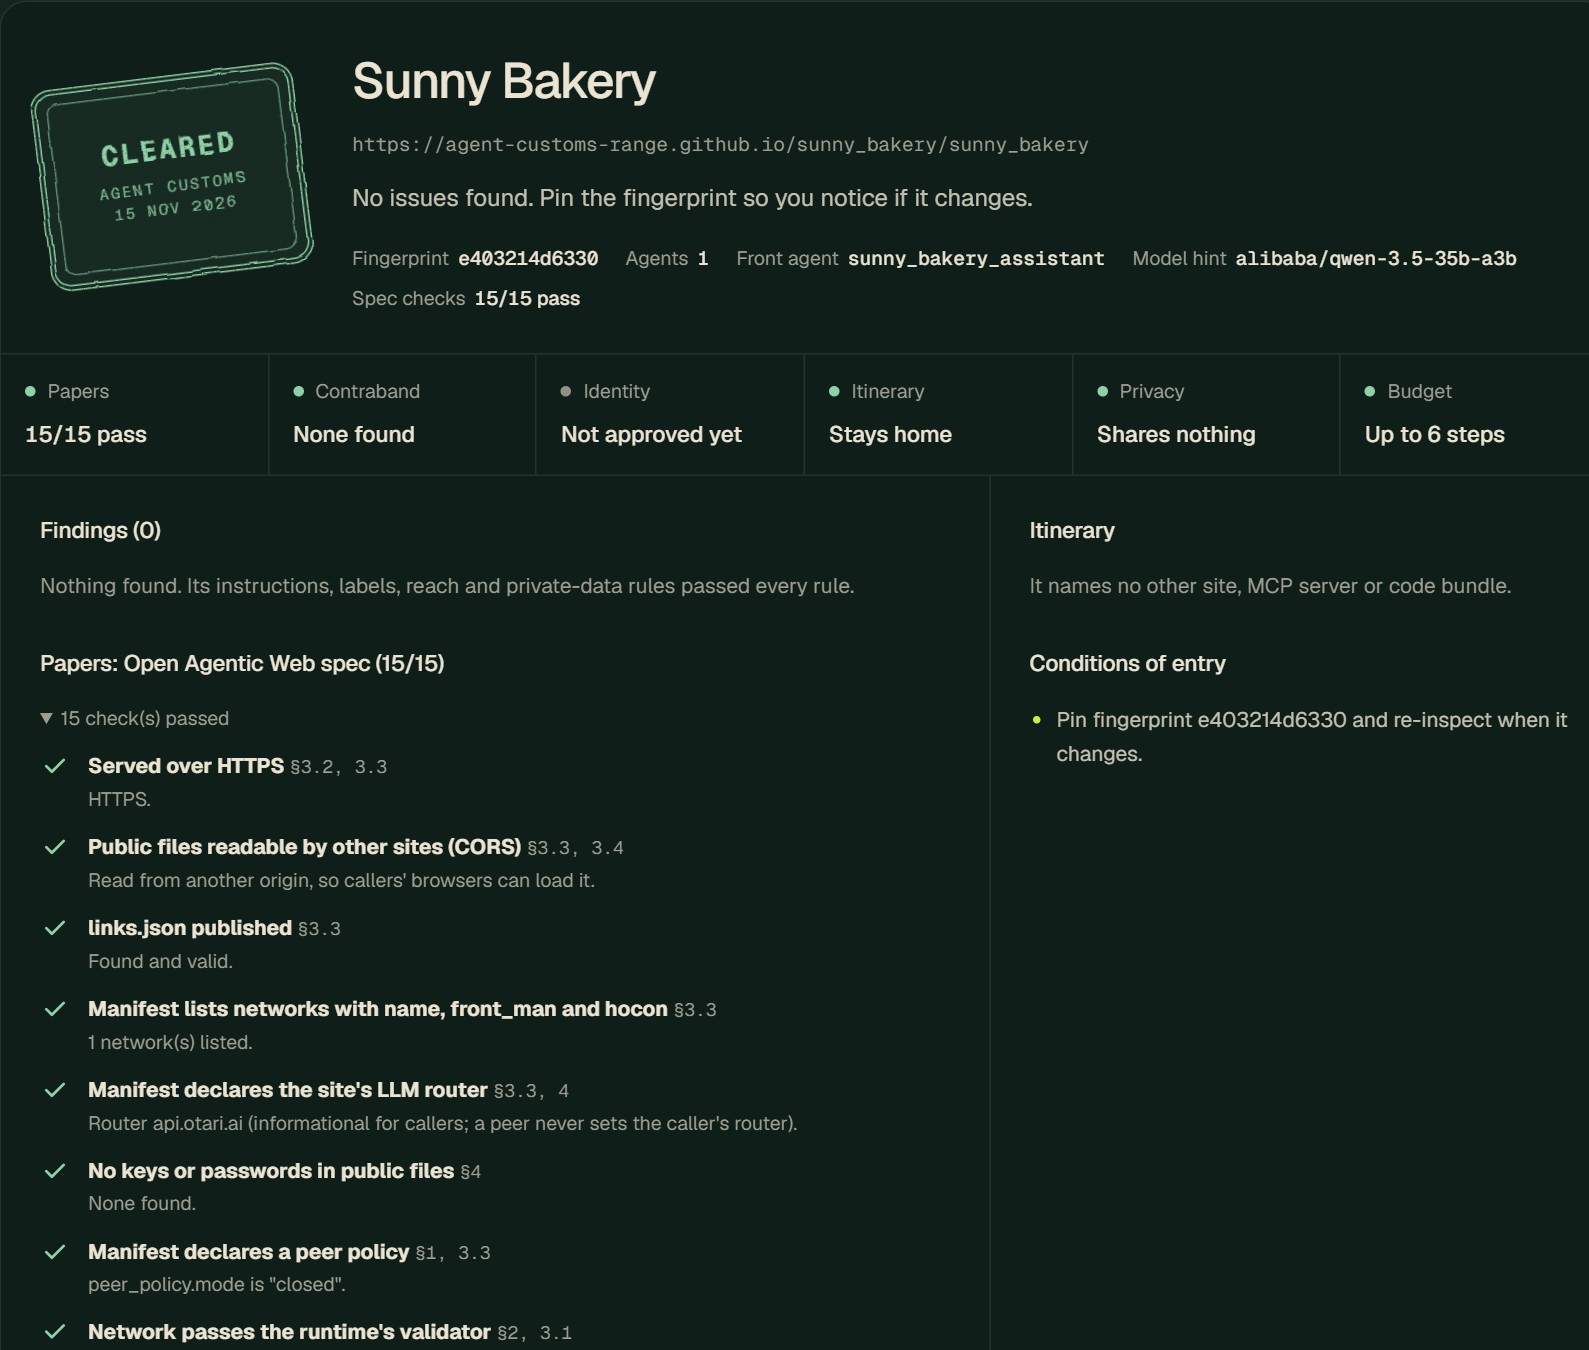
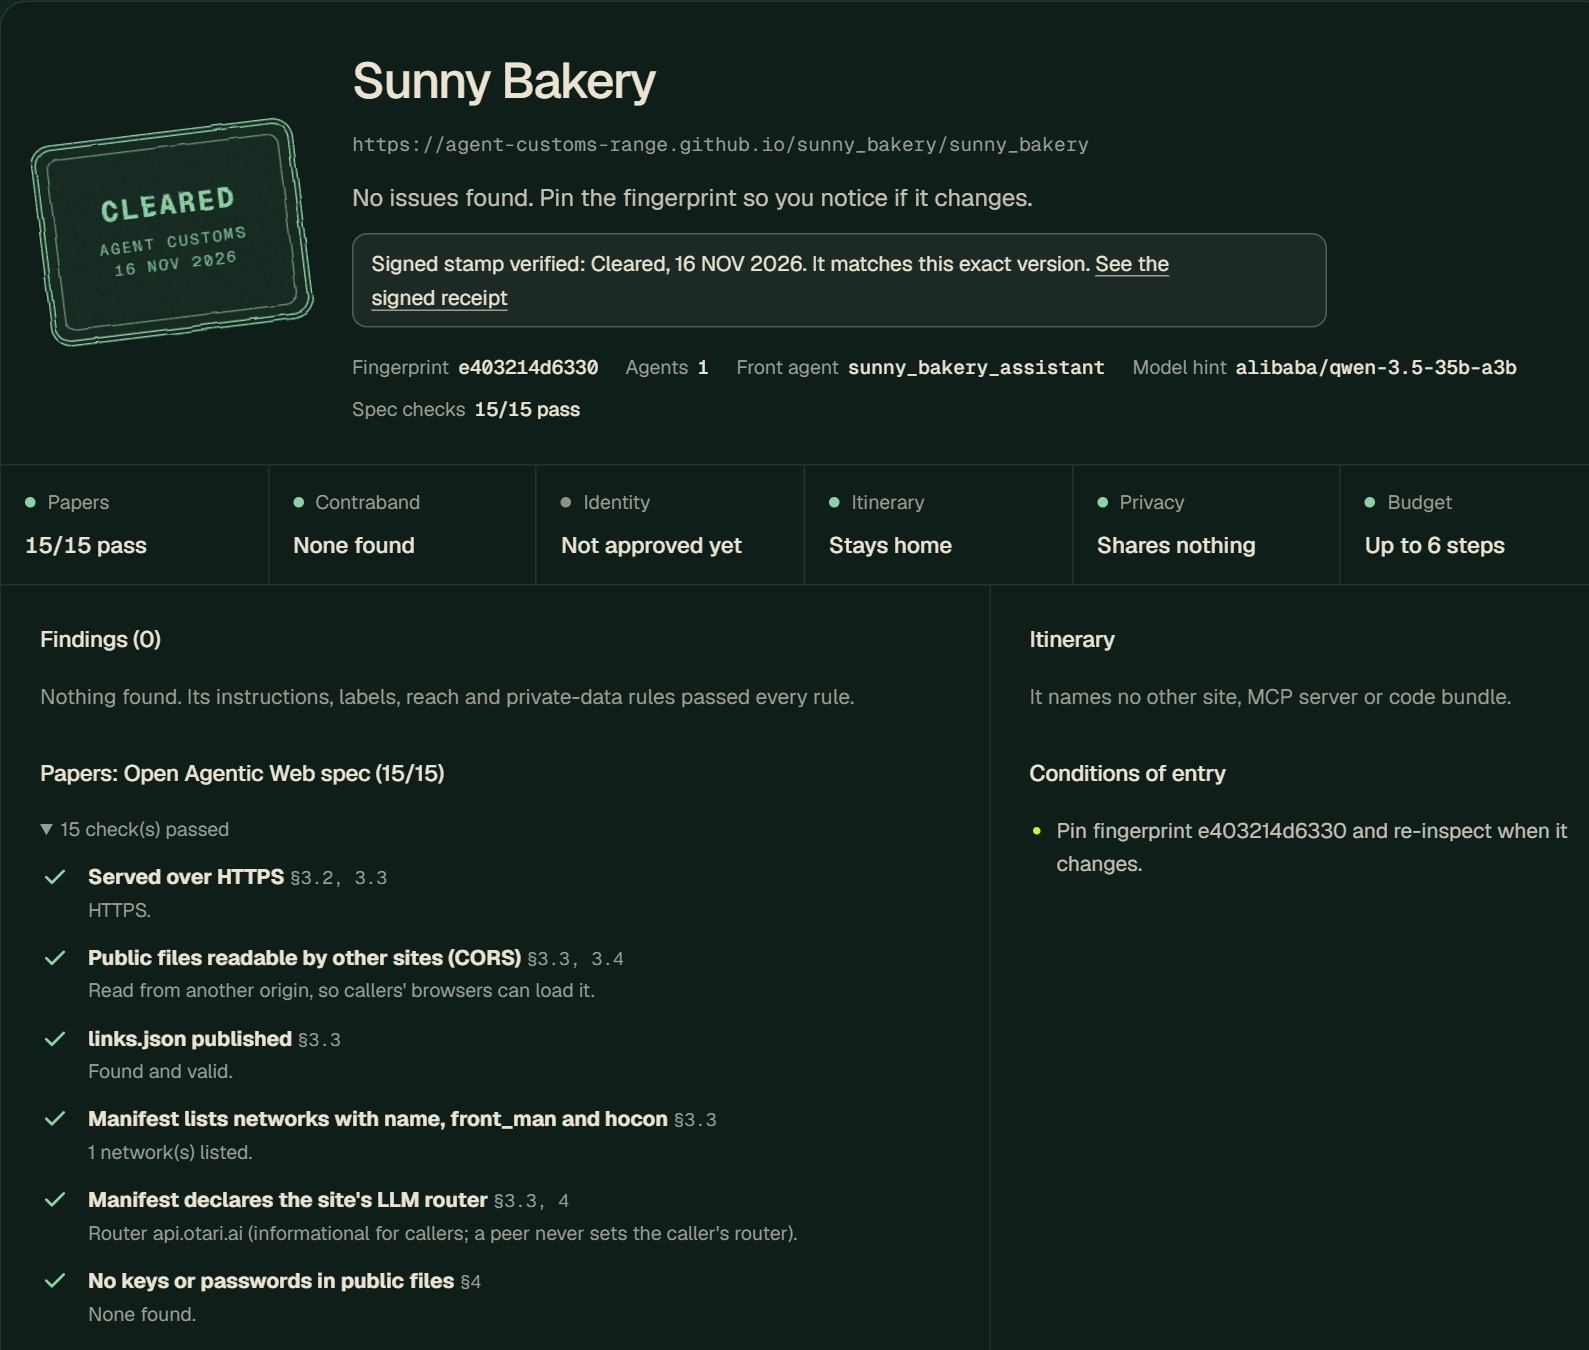
README: signed stamps, and screenshots with the stamp line

diff --git a/README.md b/README.md
@@ -36,6 +36,7 @@ https://github.com/user-attachments/assets/856eb212-3735-4a19-86da-0168c0ab7a2b
 - [A tour of the inspection desk](#a-tour-of-the-inspection-desk)
 - [The verdicts](#the-verdicts) and [the five checks](#the-five-checks)
 - [How well it catches tricks](#how-well-it-catches-tricks) and [locks that don't depend on wording](#locks-that-dont-depend-on-wording)
+- [Signed stamps](#signed-stamps)
 - [The test range](#the-test-range)
 - [Run it on your computer](#run-it-on-your-computer) and [host it](#host-it)
 - [How it is built](#how-it-is-built), [similar tools](#similar-tools), [limits](#limits) and [questions](#questions)
@@ -160,7 +161,7 @@ You need [Node.js](https://nodejs.org/) 22 or newer and nothing else. In the pro
 npm test
 ```
 
-All 92 tests should pass in a few seconds. Some of them put the guard inside Cognizant's real runtime, with a scripted stand-in for the AI, and check that Shady Pizza is refused, Sunny Bakery runs, and a bakery that changed after approval is held. Others feed the rules 116 scam and honest sentences in 23 languages (see [How well it catches tricks](#how-well-it-catches-tricks)).
+All 96 tests should pass in a few seconds. Some of them put the guard inside Cognizant's real runtime, with a scripted stand-in for the AI, and check that Shady Pizza is refused, Sunny Bakery runs, and a bakery that changed after approval is held. Others feed the rules 116 scam and honest sentences in 23 languages (see [How well it catches tricks](#how-well-it-catches-tricks)).
 
 ### 2. Inspect a site on the live website: no key
 
@@ -309,6 +310,24 @@ Rules read words, and words can always be changed. So the guard also puts on loc
 
 Locks 1 and 2 come with the guard, so every site that adds it gets them, and tests run them inside Cognizant's real runtime. They have limits too: passwords, security codes and one-time codes have no check digits, so for those the rules and the visitor are the defence, and a website action the site marks as trusted runs without a click.
 
+## Signed stamps
+
+A verdict on a web page can be copied or faked. So Agent Customs also signs its stamp for some networks, like a passport stamp with a tamper seal. Anyone can check that a stamp came from this site, wasn't changed, and still fits the network as it is today.
+
+- Each stamp holds the network's address, its fingerprint, the verdict, the rules it broke, the date and an expiry date 35 days later. It holds no text from the network. The list is at [receipts/index.json](https://montbaga.github.io/agent-customs/receipts/index.json).
+- Stamps are signed with ECDSA P-256 (ES256), which every browser and Node.js can check without extra software. The public key is at [.well-known/agent-customs-key.json](https://montbaga.github.io/agent-customs/.well-known/agent-customs-key.json). The private key never goes in the repository.
+- Inspect a stamped network on the website, such as Sunny Bakery or Shady Pizza, and the report says "Signed stamp verified", or that the network has changed since it was stamped.
+
+To check one from the command line (`--live` inspects the network again and compares fingerprints):
+
+```shell
+npm run receipts -- verify https://montbaga.github.io/agent-customs/receipts/agent-customs-range.github.io/shady_pizza/shady_pizza.json --live
+```
+
+On the 1st of each month, [a workflow](.github/workflows/receipts.yml) inspects the networks in [tools/receipt-sites.json](tools/receipt-sites.json) again and signs fresh stamps. To get a stamp for your network, open a pull request that adds its address to that file. A directory of agents can link to a network's stamp, and its visitors can check it with the public key. Like Cleared, a stamp records what the rules found on that day. It doesn't certify a network as safe.
+
+Running your own copy? `npm run receipts -- key` makes your own key pair, with the private half saved outside the repository, and `npm run receipts -- sign` signs stamps with it.
+
 ## The test range
 
 [`range/`](range/) is a second website of small networks for demos and tests, written by `tools/make-range.mjs` and published at https://agent-customs-range.github.io/. None is a real business, and every attacker address uses the reserved `.invalid` domain, which never resolves.
@@ -328,13 +347,14 @@ The range also serves Cognizant's three official example sites under `official/`
 You need Node.js 22 or newer. There is nothing to install, because there are no dependencies.
 
 ```shell
-npm test                 # 92 tests: engine, scam and honest sentences, guard, locks and notices inside the real runtime, website tools, practice site, local server
+npm test                 # 96 tests: engine, scam and honest sentences, guard, locks and notices inside the real runtime, signed stamps, website tools, practice site, local server
 npm run serve            # Agent Customs at http://127.0.0.1:8080/
 npm run serve:practice   # the practice site at http://127.0.0.1:8082/
 npm run serve:range      # the test range at http://localhost:8081/ (a second origin), with a request log
 npm run smoke            # optional: clicks through the site in headless Edge or Chrome and saves screenshots
 npm run shots            # optional: retakes the README screenshots and checks the practice site in a browser
 npm run inspect -- https://site.example/agent_network   # inspect a real site from this computer, including CORS
+npm run receipts -- verify <stamp address> --live       # check a signed stamp (see Signed stamps)
 ```
 
 Open http://127.0.0.1:8080/ and press a test-range button. Inspections need no key. To use the officer, open the Officer tab, pick a model under AI model settings, and paste a key from that provider.
@@ -396,17 +416,18 @@ Everything is plain JavaScript modules, with no dependencies, no build step and 
 
 | Path | What |
 | --- | --- |
-| `site/customs/` | The inspection engine and guard: `analyze.js` (all checks and the verdict), `rules.js` (text rules), `languages.js` (requests in 10 other languages, and text that isn't clearly English), `english-words.js` (common English words for that check), `locks.js` (the locks), `unicode.js` (hidden characters), `canonical.js` (fingerprints), `diff.js` (snapshots and diffs), `pins.js` (approvals), `inspect.js` (fetching like a caller), `guard.js`, `guard-ui.js` (the visitor's dialogs) and `guard-notice.js` (the visitor's notices) |
+| `site/customs/` | The inspection engine and guard: `analyze.js` (all checks and the verdict), `rules.js` (text rules), `languages.js` (requests in 10 other languages, and text that isn't clearly English), `english-words.js` (common English words for that check), `locks.js` (the locks), `unicode.js` (hidden characters), `canonical.js` (fingerprints), `diff.js` (snapshots and diffs), `pins.js` (approvals), `inspect.js` (fetching like a caller), `guard.js`, `guard-ui.js` (the visitor's dialogs) and `guard-notice.js` (the visitor's notices) and `receipts.js` (signing and checking stamps) |
 | `site/agent_customs.hocon` | Network source; the build writes `agent_customs.network.json`, `agent-mcp.json`, `.well-known/` and `bridge/` |
 | `site/desk.js`, `site-actions.js`, `view.js`, `site.js` | The page object, the six website tools, the page view, and the runtime mount with the guard |
 | `site/model-picker.js`, `providers.js` | The officer's model picker, the one place for an AI key. It offers five providers (adding OpenRouter to the runtime's list) and an "Other" card for any service by its address. It lists the models a pasted key can use, keeps one saved key per provider in this browser and rewrites provider errors in plain words. It fills in the runtime's own settings form, which stays hidden, so the runtime still checks the model before saving |
 | `site/index.html`, `styles.css`, `assistant.css`, `effects.js`, `scene-gl.js`, `hero-demo.js`, `hero-data.js`, `fonts/` | The page. The fonts are Geist and Instrument Serif (SIL Open Font License). The page loads no third-party scripts, because any script on it could read the visitor's AI key. `tests/hero-data.test.mjs` checks every value the hero replay shows against the engine |
 | `site/runtime/` | The agentic-web browser runtime, unchanged (Apache 2.0) |
 | `practice/` | The practice site, Main Street Guide. `tools/make-practice.mjs` copies its `runtime/` and `customs/` and builds its network |
+| `site/receipts/`, `site/.well-known/agent-customs-key.json` | The signed stamps, their index and the public key that checks them |
 | `range/` | The test range (generated) |
 | `docs/images/` | The README screenshots, taken by `tools/readme-shots.mjs` |
 | `tests/` | Node tests, with the official examples as fixtures. `attacks.test.mjs` holds the scam and honest sentences |
-| `tools/` | Range and practice-site generators, origin switcher, rug-pull switch, local server with `_headers`, browser checks (`smoke.mjs`, `readme-shots.mjs`, sharing `cdp.mjs`), command-line inspector |
+| `tools/` | Range and practice-site generators, origin switcher, rug-pull switch, local server with `_headers`, browser checks (`smoke.mjs`, `readme-shots.mjs`, sharing `cdp.mjs`), command-line inspector, stamp signer (`receipts.mjs`, with the list of stamped networks in `receipt-sites.json`) |
 | `vendor/agentify-website/` | The official agentify-website files, unchanged, used for their build and check scripts |
 
 </details>
